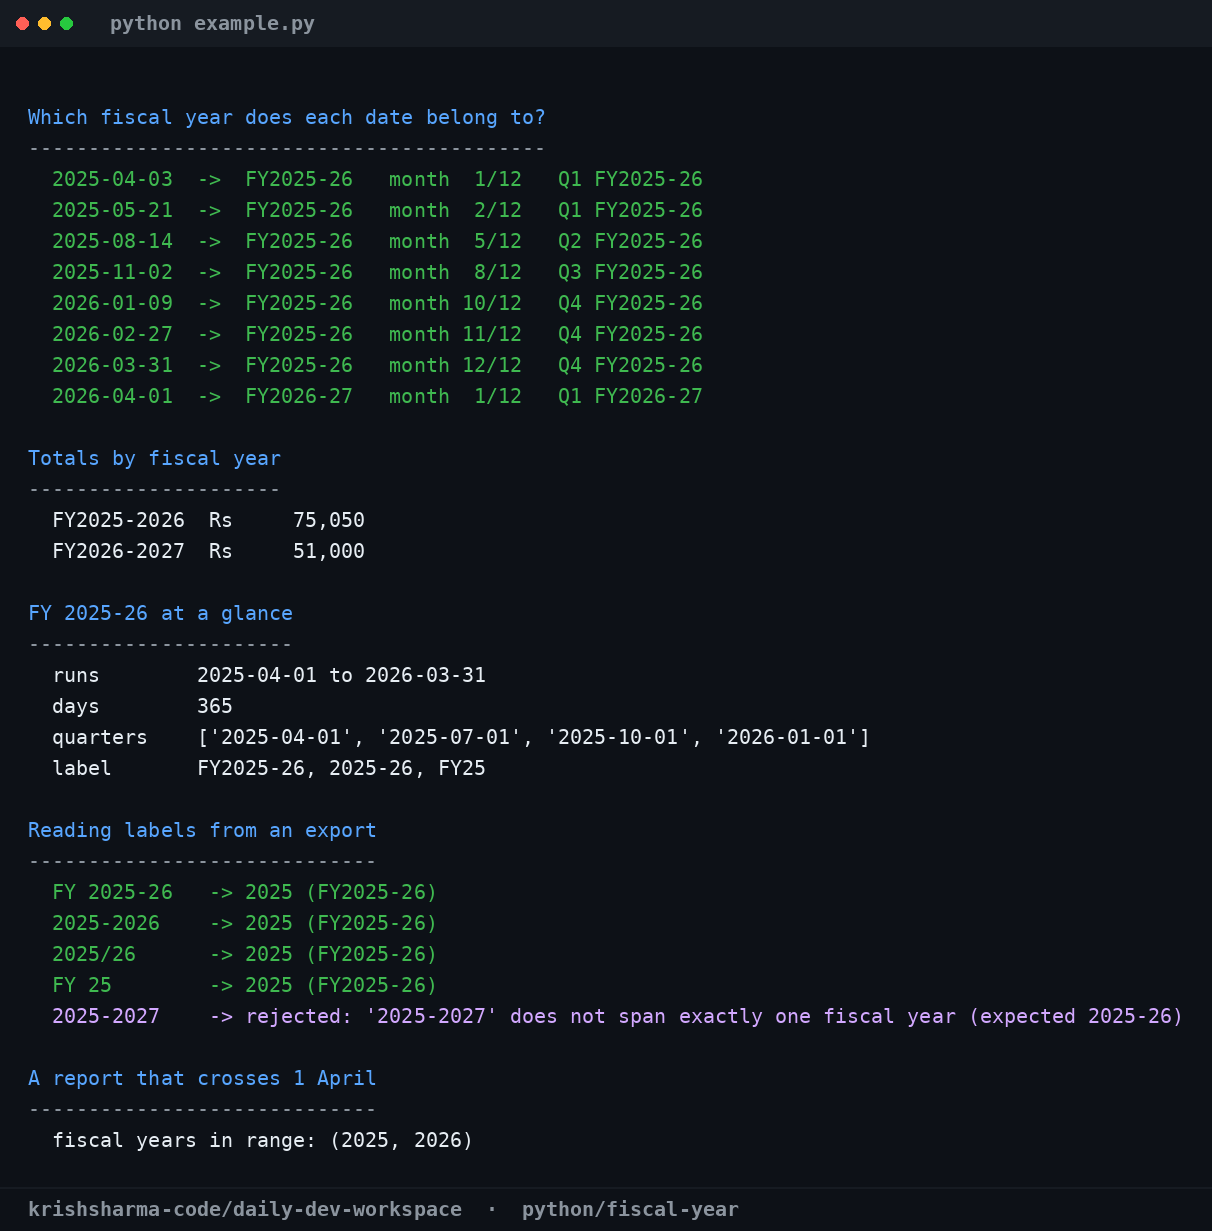
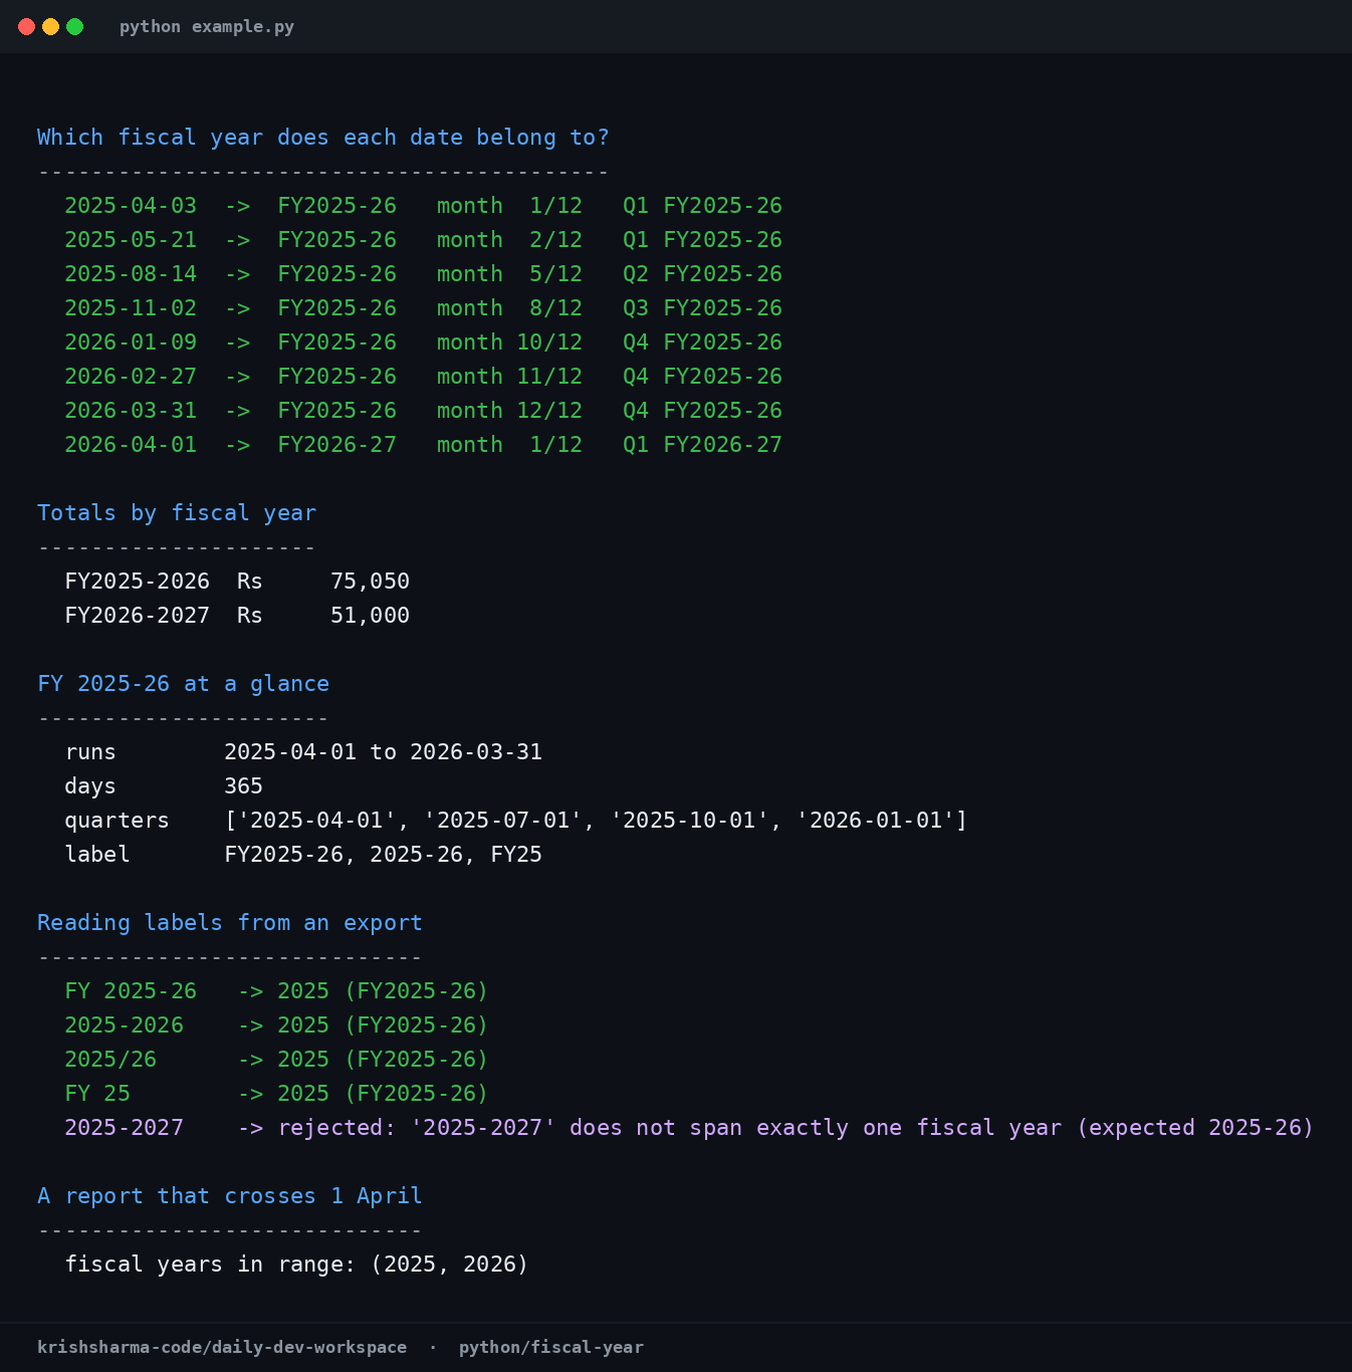
fix(posts): size post screenshots to the 676px content column
Re-rendered both terminal captures at 1352px (2x the column) so they fit
the site width exactly and stay sharp on retina. Updated img dimensions,
og:image and JSON-LD image, and documented the convention in the README.

diff --git a/posts/indian-fiscal-year-python-april-march.html b/posts/indian-fiscal-year-python-april-march.html
@@ -12,8 +12,8 @@
 <meta property="og:type" content="article">
 <meta property="og:url" content="https://krishsharma-code.github.io/posts/indian-fiscal-year-python-april-march.html">
 <meta property="og:image" content="https://krishsharma-code.github.io/assets/img/fiscal-year-demo.png">
-<meta property="og:image:width" content="1212">
-<meta property="og:image:height" content="1231">
+<meta property="og:image:width" content="1352">
+<meta property="og:image:height" content="1372">
 <meta property="og:image:alt" content="Terminal output of python example.py bucketing eight invoices into Indian fiscal years">
 <meta name="twitter:card" content="summary_large_image">
 <meta property="article:published_time" content="2026-11-25">
@@ -37,8 +37,8 @@
   "image": {
     "@type": "ImageObject",
     "url": "https://krishsharma-code.github.io/assets/img/fiscal-year-demo.png",
-    "width": 1212,
-    "height": 1231
+    "width": 1352,
+    "height": 1372
   },
   "mainEntityOfPage": "https://krishsharma-code.github.io/posts/indian-fiscal-year-python-april-march.html"
 }
@@ -63,7 +63,7 @@
     <p class="meta"><time datetime="2026-11-25">25 November 2026</time> · Krish Sharma</p>
 
     <figure>
-      <img src="/assets/img/fiscal-year-demo.png" width="1212" height="1231" loading="eager"
+      <img src="/assets/img/fiscal-year-demo.png" width="676" height="686" loading="eager"
            alt="Terminal output of python example.py from the fiscal-year module: eight invoice dates mapped to FY2025-26 or FY2026-27 with fiscal month and quarter labels, totals of Rs 75,050 and Rs 51,000 per fiscal year, and a rejected 2025-2027 label.">
       <figcaption>Real output of <code>python example.py</code> from <code>python/fiscal-year</code>. The 31 March 2026 invoice stays in FY2025-26; the 1 April 2026 one starts FY2026-27.</figcaption>
     </figure>
@@ -138,7 +138,7 @@ def quarter_bounds(year, quarter):
     <p>The module comes with a runnable <code>example.py</code> that buckets a ledger of eight invoices across the 1 April boundary and parses a list of messy imported labels, and a test suite of <strong>121 tests</strong> that all pass, plus doctested examples in the docstrings.</p>
 
     <figure>
-      <img src="/assets/img/fiscal-year-tests.png" width="1007" height="239" loading="lazy"
+      <img src="/assets/img/fiscal-year-tests.png" width="676" height="168" loading="lazy"
            alt="Terminal showing python -m pytest -q in the fiscal-year folder, ending with 121 passed.">
       <figcaption>The suite as it runs in the repo: <code>121 passed</code> in under a second, no third-party dependencies.</figcaption>
     </figure>

diff --git a/assets/style.css b/assets/style.css
@@ -293,6 +293,7 @@ article figure {
 article figure img {
   display: block;
   width: 100%;
+  max-width: 100%;
   height: auto;
   border-radius: 10px;
   border: 1px solid var(--border, rgba(255, 255, 255, 0.09));

diff --git a/README.md b/README.md
@@ -2,3 +2,15 @@
 
 Static dev blog for Krish Sharma (krishsharma-code). Posts live in `posts/`, styles in `assets/style.css`.
 Each post is a plain HTML page with a canonical URL, so Medium can import it with the canonical link intact.
+
+## Images
+
+Screenshots live in `assets/img/` and are captured from the repository a post is
+about — real terminal output or real files, never stock or generated artwork.
+
+- Content column is **676px** wide (`720px` max-width minus `44px` padding).
+- Render every screenshot at **1352px** (2x the column) so it is crisp on retina,
+  then declare `width="676"` and the matching height on the `<img>`.
+- Set `og:image` and the JSON-LD `image` to the same file, with its real
+  pixel dimensions.
+- Each figure gets a `<figcaption>` saying which command produced the output.
